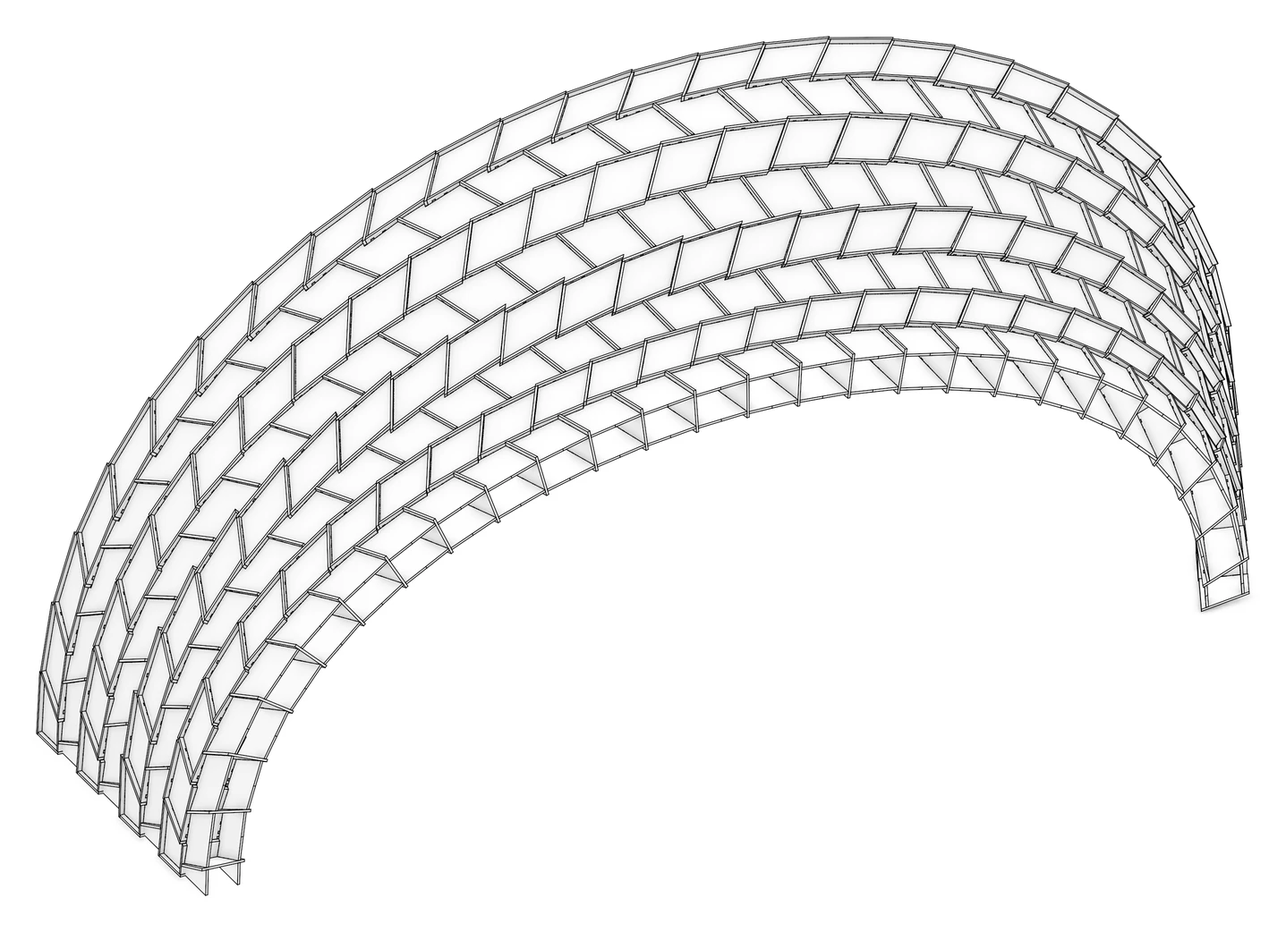
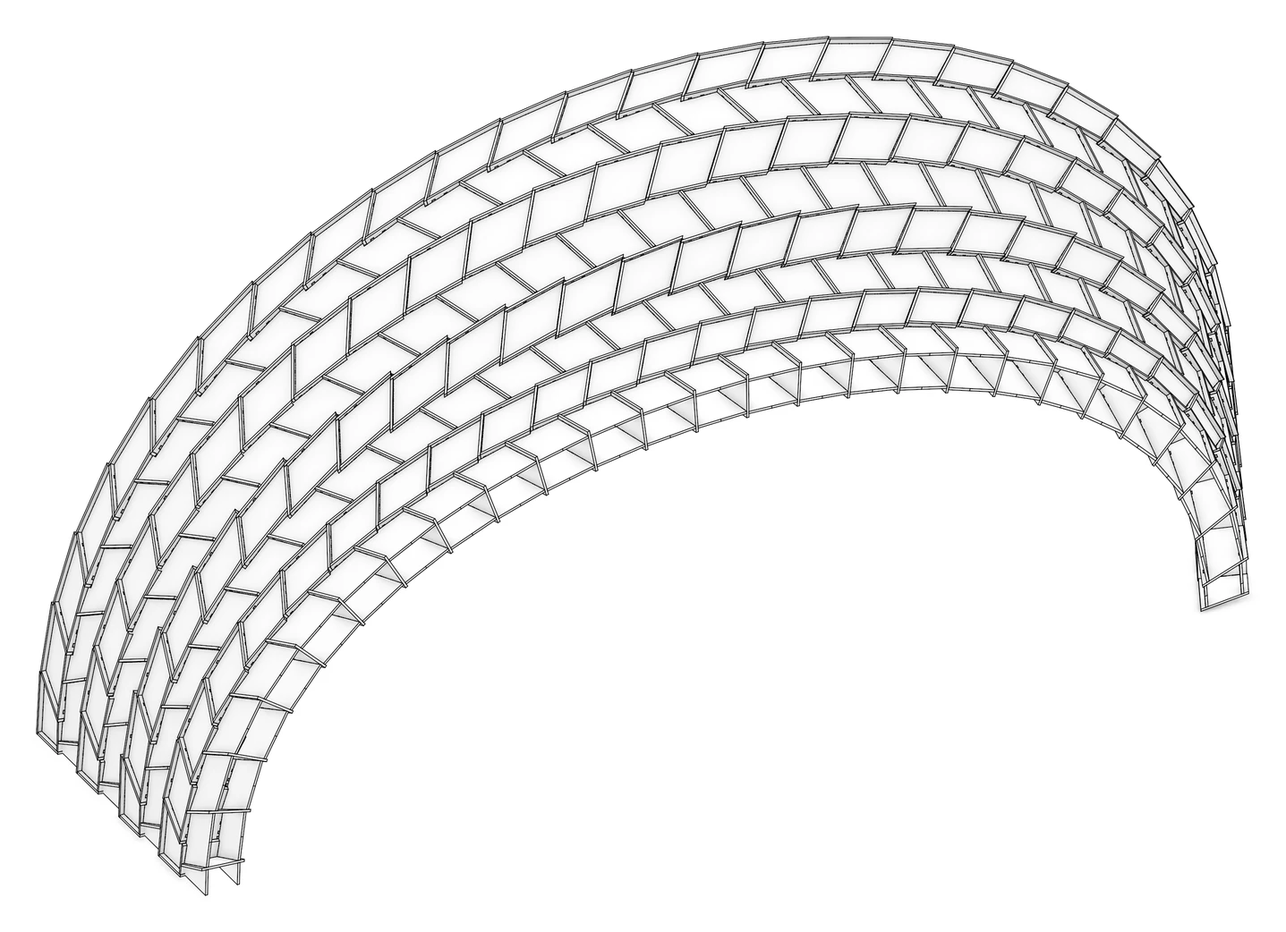
chevron: the shifted plates' steps cut along the passing mover's vector, so the boxes clear each other at the long-wall junctions
An odd hexagon's plates step from one even neighbour's long wall to the next where the merged planes do not meet; the lower even cell's wall sweeps through the right step on its last 50 mm and the odd plate's own corner through the lower wall's end on the left, 20 mm deep at every junction. Where a step stands in the way it is now cut along the mover's insertion vector, the lower even cell's on the right where the upper plane steps into the lower wall's slab, the odd cell's own on the left where the upper wall stands further out, and the two slide past each other on the cut; the other steps stay as drawn. The tenon design keeps the definition's lines: on a plain side it bounds the line by the face of the wall standing across within four thicknesses and starts it where the edge would have met that face, so only the tenon beside each cut changes, trimmed by the cut. The sweep's hits at the cut junctions fall from 20 mm to under 4 mm; what remains is the first quads' plates under their neighbours' walls, the tenons' lean, and the left steps of two columns the rule leaves uncut, under 10 mm.

diff --git a/src/joinery_solver/wood_interaction/wood_interaction_feature/wood_interaction_feature_plate_joints/top_side_annen_shifted_tenons.h b/src/joinery_solver/wood_interaction/wood_interaction_feature/wood_interaction_feature_plate_joints/top_side_annen_shifted_tenons.h
@@ -1,8 +1,50 @@
+/// The face of a wall standing across a plate's side near the corner: a face plane of another plate within reach of the corner, neither
+/// along the plate's normal nor along the side, with its outline within four thicknesses of the corner, the step of a shifted plate at a
+/// junction being up to about a hundred mm; none when there is no such wall.
+static std::optional<Plane> annen_shifted_wall_across(
+    const Plate& plate,
+    int plate_index,
+    int side,
+    const Plate& wall,
+    const std::vector<std::shared_ptr<Plate>>& elements,
+    const Point& corner,
+    double reach
+) {
+
+    const Vector normal = plate.planes[0].z_axis();
+    const Vector across = plate.planes[side].z_axis();
+    std::optional<Plane> end;
+    double nearest = reach;
+    for (size_t k = 0; k < elements.size(); k++) {
+        const Plate& other = *elements[k];
+        if ((int)k == plate_index || &other == &wall || other.planes.size() < 2)
+            continue;
+        for (int face = 0; face < 2; face++) {
+            const Plane& candidate = other.planes[face];
+            if (std::abs(candidate.z_axis().dot(normal)) > 0.5 ||
+                std::abs(candidate.z_axis().dot(across)) > 0.9)
+                continue;
+            const double distance = Point::distance(corner, candidate.project(corner));
+            size_t edge = 0;
+            Point closest;
+            if (distance < nearest &&
+                other.polylines[face].closest_distance_and_point(corner, edge, closest) <
+                    4.0 * other.thickness) {
+                nearest = distance;
+                end = candidate;
+            }
+        }
+    }
+    return end;
+}
+
 /// The plane bounding a plate's side at one end in the 2020 definition's outer loop, where every wall side stood a plate thickness further
 /// out than in the plate's own outline: the far face of the wall joined on the side beside this one; at the junction of a merged long
 /// side, where the side beside continues the same plane, the face through the corner of a wall standing across the junction, the
 /// neighbour cell's cross wall, else the wall's own end when it ends there, else the plane square across the side through the corner;
-/// the side's plane moved out by a thickness when its face is marked for these tenons and no wall is joined there; else that plane itself.
+/// the side's plane moved out by a thickness when its face is marked for these tenons and no wall is joined there; on a plain side with
+/// no wall of its own, the face of the wall standing across it; else that plane itself. beside_plane gets the plane the definition's
+/// outline met at that end when it is not the plate's own side beside, the face across a cut step, else nothing.
 static Plane annen_shifted_bound(
     const Plate& plate,
     int plate_index,
@@ -11,40 +53,21 @@ static Plane annen_shifted_bound(
     const Plate& wall,
     const std::vector<std::shared_ptr<Plate>>& elements,
     const std::vector<InteractionFeaturePlate>& joints,
-    const Point& corner
+    const Point& corner,
+    std::optional<Plane>& beside_plane
 ) {
 
     const Plane& there = plate.planes[beside];
+    beside_plane = std::nullopt;
 
-    // the junction of a merged long side: the face of another wall through the corner across the side, its outline within two thicknesses of the corner, else the wall's own end plane when it ends within a thickness of the corner, else square across the side
+    // the junction of a merged long side: the face of another wall through the corner across the side, else the wall's own end plane when it ends within a thickness of the corner, else square across the side
     if (std::abs(plate.planes[side].z_axis().dot(there.z_axis())) > 0.999) {
         const Vector normal = plate.planes[0].z_axis();
-        const Vector across = plate.planes[side].z_axis();
-        std::optional<Plane> end;
-        double nearest = 1.0;
-        for (size_t k = 0; k < elements.size(); k++) {
-            const Plate& other = *elements[k];
-            if ((int)k == plate_index || &other == &wall || other.planes.size() < 2)
-                continue;
-            for (int face = 0; face < 2; face++) {
-                const Plane& candidate = other.planes[face];
-                if (std::abs(candidate.z_axis().dot(normal)) > 0.5 ||
-                    std::abs(candidate.z_axis().dot(across)) > 0.9)
-                    continue;
-                const double distance = Point::distance(corner, candidate.project(corner));
-                size_t edge = 0;
-                Point closest;
-                if (distance < nearest &&
-                    other.polylines[face].closest_distance_and_point(corner, edge, closest) <
-                        2.0 * other.thickness) {
-                    nearest = distance;
-                    end = candidate;
-                }
-            }
-        }
+        std::optional<Plane> end =
+            annen_shifted_wall_across(plate, plate_index, side, wall, elements, corner, 1.0);
         if (end)
             return *end;
-        nearest = plate.thickness;
+        double nearest = plate.thickness;
         for (size_t k = 2; k < wall.planes.size(); k++) {
             if (std::abs(wall.planes[k].z_axis().dot(normal)) > 0.9)
                 continue;
@@ -81,12 +104,18 @@ static Plane annen_shifted_bound(
     const int given = plate.given_face(beside);
     if (given >= 0 && given < (int)plate.feature_types.size() && plate.feature_types[given] == 23)
         return there.translate_by_normal(plate.thickness);
-    return there;
+
+    // a plain side with no wall of its own, the cut step of a shifted plate: the face of the wall standing across it within four thicknesses, the cut's far end standing off that plane, as the definition's outer loop met that plane there
+    beside_plane = annen_shifted_wall_across(
+        plate, plate_index, side, wall, elements, corner, 4.0 * plate.thickness
+    );
+    return beside_plane ? *beside_plane : there;
 }
 
-/// A plate's own line on a wall as the 2020 definition drew it: from the middle of its inner corner on the first face and its outer corner
-/// on the second face at each end of the edge, the outer corner where the second face, the wall's far face and the bound of the side
-/// beside meet, in the order the plate was given; false on a joint that is no plate side on a wall face or on a degenerate edge.
+/// A plate's own line on a wall as the 2020 definition drew it: from the middle of its inner corner on the first face, where its edge meets
+/// the plane across when the side is cut short of it, and its outer corner on the second face at each end of the edge, the outer corner
+/// where the second face, the wall's far face and the bound of the side beside meet, in the order the plate was given; false on a joint
+/// that is no plate side on a wall face or on a degenerate edge.
 static bool annen_shifted_line(
     const InteractionFeaturePlate& joint,
     const std::vector<std::shared_ptr<Plate>>& elements,
@@ -119,11 +148,22 @@ static bool annen_shifted_line(
         std::swap(beside[0], beside[1]);
     }
 
+    // a side cut short of the plane the definition's outline met, a shifted plate's step cut for the wall passing it, starts its line where its edge would have met that plane
     std::array<Point, 2> middles;
     for (int end = 0; end < 2; end++) {
-        const Point inner = plate.polylines[0].get_point(ends[end]);
-        const Plane bound =
-            annen_shifted_bound(plate, male, side, beside[end], wall, elements, joints, inner);
+        Point inner = plate.polylines[0].get_point(ends[end]);
+        std::optional<Plane> beside_plane;
+        const Plane bound = annen_shifted_bound(
+            plate, male, side, beside[end], wall, elements, joints, inner, beside_plane
+        );
+        if (beside_plane) {
+            const Line edge = Line::from_points(
+                plate.polylines[0].get_point(ends[1 - end]), plate.polylines[0].get_point(ends[end])
+            );
+            Point met;
+            if (Intersection::line_plane(edge, *beside_plane, met, false))
+                inner = met;
+        }
         Point outer;
         if (!Intersection::plane_plane_plane(
                 plate.planes[1], wall.planes[1 - wall_face], bound, outer

diff --git a/src/templates/chevron/chevron_shifted.h b/src/templates/chevron/chevron_shifted.h
@@ -146,7 +146,7 @@ private:
     /// A plane at the surface point nearest every cell's centre, x along the rows, z into the surface.
     std::vector<Plane> compute_face_planes() const;
 
-    /// Per cell its edge planes in order, with the neighbour's cross plane inserted after edges 1 and 4 of a hexagon.
+    /// Per cell its edge planes in order, with the neighbour's cross plane inserted after edges 1 and 4 of a hexagon; an odd hexagon's steps, where it moves from one even neighbour's long wall to the next, are cut along the insertion vector of whatever passes them on its way in, the lower even cell's wall after edge 1, the odd cell itself after edge 4, where the steps would otherwise stand in the way.
     std::vector<std::vector<wood_chevron::ShiftedSide>> compute_sides() const;
 
     /// Per cell a top and a bottom plate, stepped in by a wall where its own walls stand, then its walls between the outer box faces: the halves of a merged long side one wall, every wall mitred against the next wall of its box and stopped short of a side where a neighbour's wall stands inside the cell.
@@ -169,6 +169,10 @@ private:
 
     /// The two cell edges whose outline segments give the insertion direction.
     static std::array<int, 2> insertion_edges(int mask);
+
+    /// The insertion direction of a cell with the side loop sides and the face plane face: the bisector of its two insertion edges' outline segments.
+    static Vector
+    direction_of(const std::vector<wood_chevron::ShiftedSide>& sides, const Plane& face, int mask);
 
     /// The cell edges whose walls the cell slides into: its direction goes to them.
     static std::vector<int> owned_edges(int mask);
@@ -647,6 +651,68 @@ inline std::vector<std::vector<wood_chevron::ShiftedSide>> ChevronShifted::compu
         sides.push_back(loop);
     }
 
+    // the odd hexagons' step after edge 1, where it steps into the slab of the lower even neighbour's long wall: the plane through the step's corner on that wall, along the neighbour's insertion vector, so the wall slides along the cut on its way in; a step the other way is in nobody's way
+    for (size_t cell = 0; cell < _cells.masks.size(); cell++) {
+        if (_cells.masks[cell] != -2)
+            continue;
+
+        const EdgeKey key = edge_key(static_cast<int>(cell), 1);
+        const std::vector<int>& on_edge = _cells.faces.edge_faces.at(key);
+
+        if (on_edge.size() != 2)
+            continue;
+
+        const int neighbour = on_edge[0] != static_cast<int>(cell) ? on_edge[0] : on_edge[1];
+        const Plane& lower = sides[cell][1].plane;
+        const Plane& upper = sides[cell][3].plane;
+        const Plane& across = sides[cell][2].plane;
+        Point on_lower;
+        Point on_upper;
+        const std::optional<Line> step = Intersection::plane_plane(across, lower);
+
+        if (!step ||
+            !Intersection::plane_plane_plane(across, lower, _face_planes[cell], on_lower) ||
+            !Intersection::plane_plane_plane(across, upper, _face_planes[cell], on_upper))
+            continue;
+
+        const double into = (on_upper - on_lower).dot(lower.z_axis());
+        const double slab = (_face_planes[neighbour].origin() - on_lower).dot(lower.z_axis());
+
+        if (into * slab <= 0.0)
+            continue;
+
+        const Vector along =
+            direction_of(sides[neighbour], _face_planes[neighbour], _cells.masks[neighbour]);
+        sides[cell][2].plane = Plane(step->start(), along, step->to_vector());
+    }
+
+    // the odd hexagons' step after edge 4, between the two even neighbours' outward walls standing inside the cell, where the upper wall stands further out than the lower one: the plane through the step's corner on the lower wall's inner face, along this cell's own insertion vector, so the plate's upper part slides along the lower wall's end on its way in
+    for (size_t cell = 0; cell < _cells.masks.size(); cell++) {
+        if (_cells.masks[cell] != -2)
+            continue;
+
+        const Plane& face = _face_planes[cell];
+        const Plane lower = stepped(sides[cell][7].plane, plate_thickness, face.origin(), true);
+        const Plane upper = stepped(sides[cell][5].plane, plate_thickness, face.origin(), true);
+        const Plane& across = sides[cell][6].plane;
+        Point on_lower;
+        Point on_upper;
+        const std::optional<Line> step = Intersection::plane_plane(across, lower);
+
+        if (!step || !Intersection::plane_plane_plane(across, lower, face, on_lower) ||
+            !Intersection::plane_plane_plane(across, upper, face, on_upper))
+            continue;
+
+        const double out = (on_upper - on_lower).dot(lower.z_axis());
+        const double inside = (face.origin() - on_lower).dot(lower.z_axis());
+
+        if (out * inside >= 0.0)
+            continue;
+
+        const Vector along = direction_of(sides[cell], face, _cells.masks[cell]);
+        sides[cell][6].plane = Plane(step->start(), along, step->to_vector());
+    }
+
     return sides;
 }
 
@@ -918,6 +984,30 @@ inline std::array<int, 2> ChevronShifted::insertion_edges(int mask) {
     return {2, 3};
 }
 
+inline Vector ChevronShifted::direction_of(
+    const std::vector<wood_chevron::ShiftedSide>& sides, const Plane& face, int mask
+) {
+
+    std::vector<Plane> loop;
+
+    for (const wood_chevron::ShiftedSide& side : sides)
+        loop.push_back(side.plane);
+
+    const std::vector<Point> corners = Polyline::from_planes(loop, face).get_points();
+    std::array<Vector, 2> segments;
+
+    for (size_t which = 0; which < 2; which++) {
+        size_t k = 0;
+
+        while (sides[k].edge != insertion_edges(mask)[which])
+            k++;
+
+        segments[which] = (corners[k] - corners[(k + loop.size() - 1) % loop.size()]).normalized();
+    }
+
+    return segments[0] - segments[1];
+}
+
 inline std::vector<int> ChevronShifted::owned_edges(int mask) {
 
     if (mask == 2 || mask == 20)
@@ -955,14 +1045,6 @@ ChevronShifted::compute_joinery(const wood_chevron::ShiftedPlates& plates) {
     for (size_t cell = 0; cell < _cells.masks.size(); cell++) {
         const int mask = _cells.masks[cell];
         const std::vector<wood_chevron::ShiftedSide>& sides = _sides[cell];
-        std::vector<Plane> loop;
-
-        for (const wood_chevron::ShiftedSide& side : sides)
-            loop.push_back(side.plane);
-
-        const std::vector<Point> corners =
-            Polyline::from_planes(loop, _face_planes[cell]).get_points();
-        std::array<Vector, 2> segments;
         Vector axis(0.0, 0.0, 0.0);
 
         for (size_t which = 0; which < 2; which++) {
@@ -971,12 +1053,10 @@ ChevronShifted::compute_joinery(const wood_chevron::ShiftedPlates& plates) {
             while (sides[k].edge != insertion_edges(mask)[which])
                 k++;
 
-            segments[which] =
-                (corners[k] - corners[(k + loop.size() - 1) % loop.size()]).normalized();
             axis = axis + sides[k].plane.y_axis() * 0.5;
         }
 
-        const Vector direction = segments[0] - segments[1];
+        const Vector direction = direction_of(sides, _face_planes[cell], mask);
 
         for (const int edge : owned_edges(mask)) {
             directions[edge_key(static_cast<int>(cell), edge)] = direction;

diff --git a/examples/templates_chevron_2_shifted.cpp b/examples/templates_chevron_2_shifted.cpp
@@ -22,7 +22,7 @@ int main() {
 
 /*
 |||||||| DESCRIPTION ||||||||
-The shifted chevron template on the first of the 23 Annen surfaces in annen_surfaces.json, the 2018 Annen pattern: 54 iso curves across the arch at equal arc length, 9 points on each, the interior points shifted by 0.4 of a row towards the next row in even columns and the previous one in odd columns, so the cells are hexagons over three rows in staggered columns, 27 per column, with a half-cell quad at one end of every column; a plane through every edge, the even columns' long sides merged and turned by 0.05 rad, the neighbours' cross planes inserted; then per cell a top and a bottom plate 300 mm from the surface, stepped in by the 40 mm wall where the cell's own walls stand, and its walls running 80 mm past the plates, the two halves of a merged long side one wall, every wall mitred against the next wall of its box and stopped short of a neighbour's wall standing inside the cell, with the insertion vectors, feature axes, joint types, divisions, adjacency and three-valence groups the wood solver reads to cut the definition's own through-tenons (top_side_annen_shifted_tenons) and their slots and Christopher's Annen fingers (side_side_outplane_annen_fingers) into the 224 box corners: the 431 jointed plates of the 2020 Annen2.3dm ground truth within 0.011 mm but for the 16 on the naked long side of column 0, within 1.1 mm, and every tenon they carry within 1 mm, and the one top plate it lacks; each step in its own group (surface, mesh, edge_planes, plates with a box_<cell> group per cell, insertion, joints).
+The shifted chevron template on the first of the 23 Annen surfaces in annen_surfaces.json, the 2018 Annen pattern: 54 iso curves across the arch at equal arc length, 9 points on each, the interior points shifted by 0.4 of a row towards the next row in even columns and the previous one in odd columns, so the cells are hexagons over three rows in staggered columns, 27 per column, with a half-cell quad at one end of every column; a plane through every edge, the even columns' long sides merged and turned by 0.05 rad, the neighbours' cross planes inserted; then per cell a top and a bottom plate 300 mm from the surface, stepped in by the 40 mm wall where the cell's own walls stand, and its walls running 80 mm past the plates, the two halves of a merged long side one wall, every wall mitred against the next wall of its box and stopped short of a neighbour's wall standing inside the cell, the odd plates' steps between two long walls cut along the insertion vector of whatever passes them, with the insertion vectors, feature axes, joint types, divisions, adjacency and three-valence groups the wood solver reads to cut the definition's own through-tenons (top_side_annen_shifted_tenons) and their slots and Christopher's Annen fingers (side_side_outplane_annen_fingers) into the 224 box corners: the 431 jointed plates of the 2020 Annen2.3dm ground truth within 0.011 mm but for the 16 on the naked long side of column 0, within 1.1 mm, and every tenon they carry within 1 mm, and the one top plate it lacks; each step in its own group (surface, mesh, edge_planes, plates with a box_<cell> group per cell, insertion, joints).
 
 |||||||| DIRECTORY ||||||||
 cd wood_research/wood

diff --git a/docs/templates/chevron.md b/docs/templates/chevron.md
@@ -222,7 +222,7 @@ if (_cells.faces.edge_faces.at(first).size() != 1) {
 
 ### Plates {#chevron_shifted_plates}
 
-The face plane of a cell is the surface frame at the point nearest the length-weighted centre of its outline, Rhino's `Polyline.CenterPoint`, z into the surface. The top and bottom plates are the face plane moved by `plate_offset` ± half a plate, cut by the side loop stepped in by a wall on the sides where the cell's own walls stand: the bottom edge and the left side of a hexagon, the bottom and left of a last quad, nothing on a first quad. The walls stand on the sides `0, 1, 2, 4, 5` of an even hexagon, the two halves of each merged long side one wall, on side `3` of an odd one, on all four sides of a last quad and on side `2` of a first quad, each between the outer box faces, a plate thick inward on the cell's own sides and outward on the sides it gives to the neighbouring column. A wall ends on the mitre where it meets the next wall of its box, the plane through the seam of the two walls' outer faces halfway between them, so a hexagon's cross wall is mitred against both long walls and a last quad's four walls against each other; it stops a plate short of a side where a neighbour's wall stands inside the cell, as an odd cell's cross wall and a first quad's wall stop at the even column's outward wall; else it ends on the side's plane, so the long walls of two cells of a column meet end to end on their shared edge plane. The ground truth kept the halves apart and ran every wall to the side planes, so its walls overlap one another by a thickness at every corner and junction. A cell's plates and walls are kept in its group `box_<cell>`.
+The face plane of a cell is the surface frame at the point nearest the length-weighted centre of its outline, Rhino's `Polyline.CenterPoint`, z into the surface. The top and bottom plates are the face plane moved by `plate_offset` ± half a plate, cut by the side loop stepped in by a wall on the sides where the cell's own walls stand: the bottom edge and the left side of a hexagon, the bottom and left of a last quad, nothing on a first quad. The walls stand on the sides `0, 1, 2, 4, 5` of an even hexagon, the two halves of each merged long side one wall, on side `3` of an odd one, on all four sides of a last quad and on side `2` of a first quad, each between the outer box faces, a plate thick inward on the cell's own sides and outward on the sides it gives to the neighbouring column. A wall ends on the mitre where it meets the next wall of its box, the plane through the seam of the two walls' outer faces halfway between them, so a hexagon's cross wall is mitred against both long walls and a last quad's four walls against each other; it stops a plate short of a side where a neighbour's wall stands inside the cell, as an odd cell's cross wall and a first quad's wall stop at the even column's outward wall; else it ends on the side's plane, so the long walls of two cells of a column meet end to end on their shared edge plane. The ground truth kept the halves apart and ran every wall to the side planes, so its walls overlap one another by a thickness at every corner and junction. An odd hexagon's plates step from one even neighbour's long wall to the next on each side, where the neighbours' merged planes do not meet; where such a step stands in the way of what passes it on its way in, the lower even cell's wall on the right side and the odd cell itself on the left, the step is cut along that mover's insertion vector instead of across, so the two slide past each other on the cut: on the right side where the upper wall's plane steps into the lower wall's slab, on the left side where the upper wall stands further out than the lower one. The other steps stay as the definition drew them. A cell's plates and walls are kept in its group `box_<cell>`.
 
 ![](templates/templates_chevron_2_shifted_plates.webp)
 
@@ -259,7 +259,7 @@ for (size_t k = 0; k < edges.size(); k++) {
 
 ### Ground Truth {#chevron_shifted_ground_truth}
 
-`examples/templates_chevron_2_shifted.cpp` builds the pattern on the first Annen surface, the surface internalised in the definition, and is compared with `Annen2.3dm` as the definition baked it: 431 top and bottom plates carrying its tenons and 644 walls it never cut, as meshes in metres. Every vertex of every ground-truth plate lies within 0.011 mm of our outlines after the joints, and every tenon the ground truth carries, 12772 of them, has its corners within 0.011 mm of a tenon of ours, on all 431 plates but the 16 on the naked long side of column 0, leaning through the plate's thickness as the ground truth's do within 0.012 mm; on that naked side the definition split its wall at a plane through the midpoint of the two edge middles, a plane no wall stands on once the halves are one, so the junction now bounds the tenons square across the side through the collinear vertex and those 16 plates' tenons move by up to 1.1 mm. Every ground-truth wall vertex lies on our wall outlines before the merge, the mitres and the trims, and the ground truth lacks the top plate of the last quad of column 0, which this template builds. Ours has tenons the ground truth lacks on 56 plates: those next to the seam of a ground-truth outline, on its first or last side, always the ones nearest the seam corner, where the definition's polyline insertion dropped the tenons it had computed, and those on the two ground-truth meshes whose caps are torn (objects 844 and 957). The definition's walls are plain, so the slots the solver cuts for every tenon have no counterpart there; every slot of ours is the exact negative of its tenon, and the walls no tenon reaches, the last quads' end walls, stay uncut here as well.
+`examples/templates_chevron_2_shifted.cpp` builds the pattern on the first Annen surface, the surface internalised in the definition, and is compared with `Annen2.3dm` as the definition baked it: 431 top and bottom plates carrying its tenons and 644 walls it never cut, as meshes in metres. Every vertex of every ground-truth plate lies within 0.011 mm of our outlines after the joints, except at the cut steps of 104 odd plates, where the definition's step corner stands up to 81 mm off the cut, and every tenon the ground truth carries, 12772 of them, has its corners within 0.011 mm of a tenon of ours, on all 431 plates but the 16 on the naked long side of column 0 and the tenon beside each cut, which the cut trims, leaning through the plate's thickness as the ground truth's do within 0.012 mm; on that naked side the definition split its wall at a plane through the midpoint of the two edge middles, a plane no wall stands on once the halves are one, so the junction now bounds the tenons square across the side through the collinear vertex and those 16 plates' tenons move by up to 1.1 mm. Every ground-truth wall vertex lies on our wall outlines before the merge, the mitres and the trims, and the ground truth lacks the top plate of the last quad of column 0, which this template builds. Ours has tenons the ground truth lacks on 56 plates: those next to the seam of a ground-truth outline, on its first or last side, always the ones nearest the seam corner, where the definition's polyline insertion dropped the tenons it had computed, and those on the two ground-truth meshes whose caps are torn (objects 844 and 957). The definition's walls are plain, so the slots the solver cuts for every tenon have no counterpart there; every slot of ours is the exact negative of its tenon, and the walls no tenon reaches, the last quads' end walls, stay uncut here as well.
 
 
 ## Assembly {#chevron_assembly}
@@ -270,7 +270,7 @@ for (size_t k = 0; k < edges.size(); k++) {
 ![MAX2 assembly](images/templates/templates_chevron_6_max2_assembly.gif)
 ![Shifted assembly](images/templates/templates_chevron_5_shifted_assembly.gif)
 
-Christopher's chevron tenons are prisms along their own box's vector, and the chevron and MAX2 shells assemble as rigid boxes: on the first Annen surface 184 boxes in order, 22 plate pairs meeting along the way, 18 of them deeper than 1 mm and the deepest 6.67 mm, all but one at the end of the way with points inside each other in place, the overlaps the turned and moved edge planes give neighbouring plates; the MAX2 arch 200 boxes, 27 pairs, the deepest 7.67 mm, 23 of them in place and four binding by up to 2.1 mm over the last 20 mm. The shifted cells do not. A plate's tenons into the wall of a neighbouring cell are cut along that cell's insertion vector, which lies in the neighbour's plane; the surface turns between the two cells, so in the plate's own plane the tenon axis is off by that turn, about 3 degrees at the feet, and a box slid in along one vector binds by a couple of millimetres across the wall. `Annen2.3dm` has exactly the same tenons, so the template reproduces them rather than correcting them. Worse, an even cell's outward long wall takes its own plates' tenons along the odd neighbour's vector, so not even one box is a rigid unit of one vector, and where the long walls of two cells of a column meet end to end, the odd plate beside them steps 50 mm from one merged plane to the next, into the slab the lower wall sweeps through on its last 50 mm of travel: the sweep finds 927 plate pairs meeting, 766 deeper than 1 mm and the deepest 20 mm, the full half thickness, at every such junction, and only the 16 pairs of the first quads' plates under their neighbours' walls meet in place. The 2020 definition's shell goes together plate by plate, each wall slid onto its tenons along the one vector its slots share, as the Annen pavilion was built; the picture shows the order the tenons dictate.
+Christopher's chevron tenons are prisms along their own box's vector, and the chevron and MAX2 shells assemble as rigid boxes: on the first Annen surface 184 boxes in order, 22 plate pairs meeting along the way, 18 of them deeper than 1 mm and the deepest 6.67 mm, all but one at the end of the way with points inside each other in place, the overlaps the turned and moved edge planes give neighbouring plates; the MAX2 arch 200 boxes, 27 pairs, the deepest 7.67 mm, 23 of them in place and four binding by up to 2.1 mm over the last 20 mm. The shifted cells do not. A plate's tenons into the wall of a neighbouring cell are cut along that cell's insertion vector, which lies in the neighbour's plane; the surface turns between the two cells, so in the plate's own plane the tenon axis is off by that turn, about 3 degrees at the feet, and a box slid in along one vector binds by a couple of millimetres across the wall. `Annen2.3dm` has exactly the same tenons, so the template reproduces them rather than correcting them. An even cell's outward long wall takes its own plates' tenons along the odd neighbour's vector, which is right for the order: that wall is in place before the odd plates slide their tenons into it. What blocked the boxes was the steps of the odd plates where the long walls of two cells of a column meet end to end: a step of up to 100 mm into the slab the lower wall sweeps through on its last 50 mm of travel, 20 mm deep, the full half thickness, at every such junction. With the steps cut along the movers' vectors the sweep finds 868 plate pairs meeting, 687 deeper than 1 mm and 60 deeper than 5 mm: the 16 pairs of the first quads' plates under their neighbours' walls, which the definition left overlapping in place, at 20 mm, and the rest under 10 mm, the tenons' lean and the left steps of two columns the rule leaves uncut. The picture shows the order the tenons dictate.
 
 ```cpp
 #include "wood_session.h"
